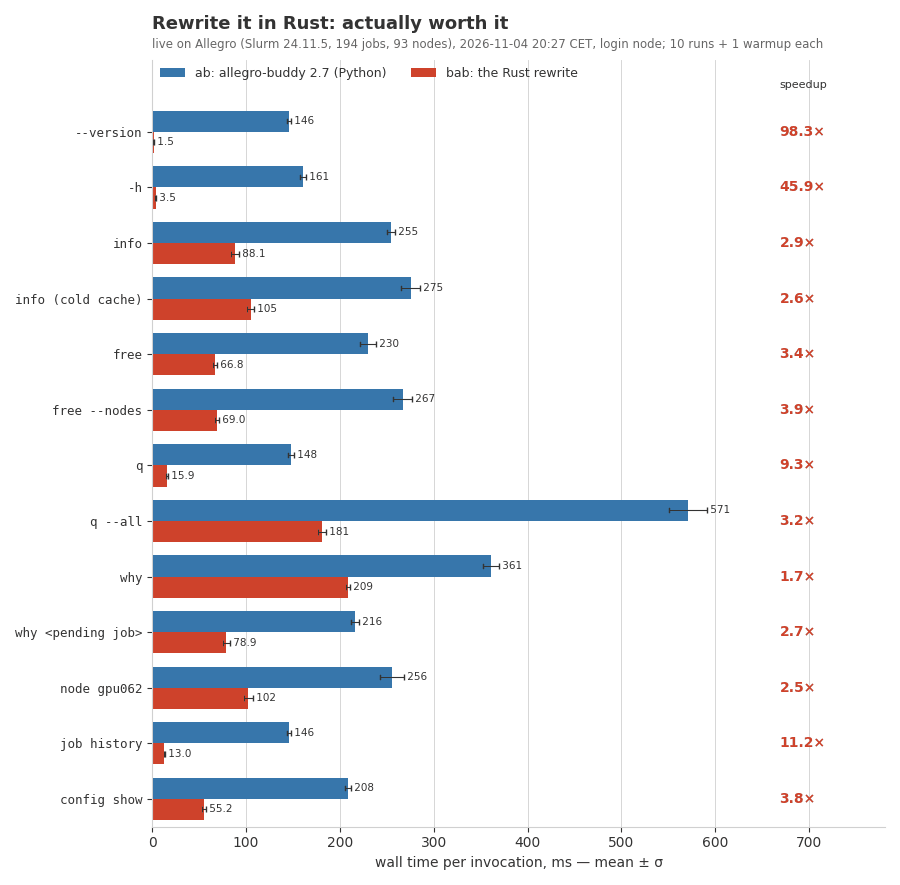
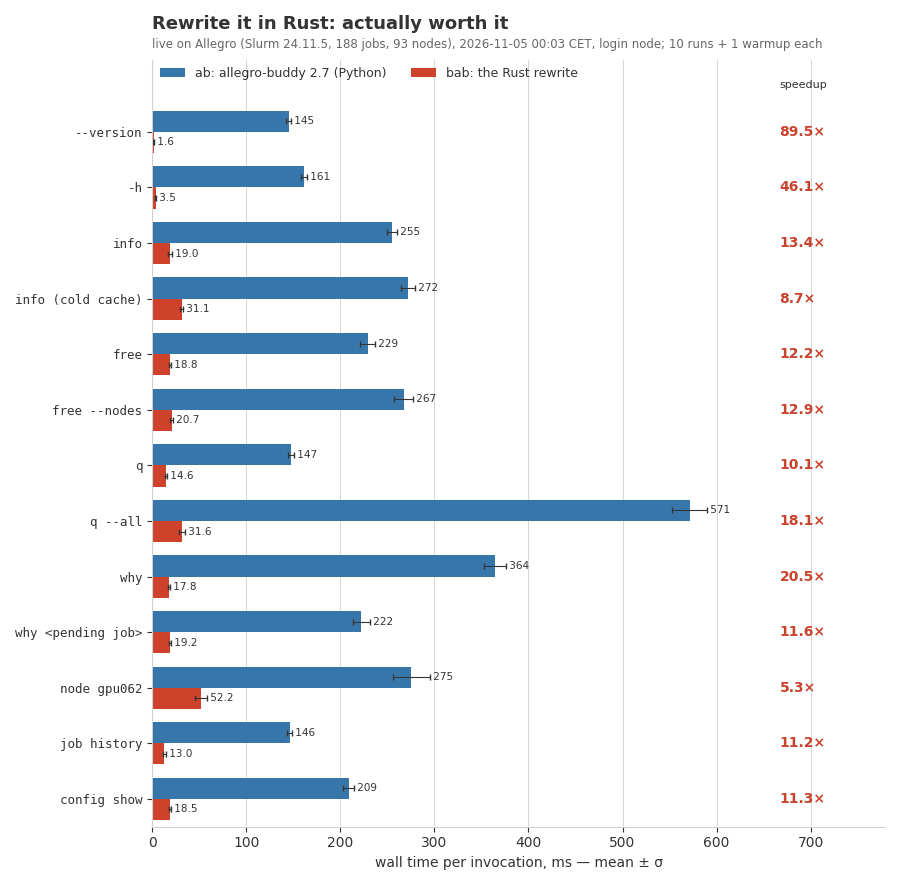
bench: live numbers after the Slurm-side pass (median 12x vs ab, all commands 0.23 s)
Live on Allegro 2026-11-05 00:03 (bench/live.sh, 10 runs + warmup, bab sha256 6297cd4e),
previous bab -> this bab (mean ms):
  --version 1.48 -> 1.62, -h 3.50 -> 3.50, info 88.1 -> 19.0, info cold 104.8 -> 31.1,
  free 66.8 -> 18.9, free --nodes 69.0 -> 20.7, q 15.9 -> 14.6, q --all 180.6 -> 31.6,
  why 208.7 -> 17.8, why <pending> 79.0 -> 19.2, node 102.3 -> 52.2,
  job history 13.0 -> 13.0, config show 55.2 -> 18.5
vs ab: median 3.4x -> 12.2x (geometric mean 5.7x -> 15.1x); all 12 read-only commands
once: 0.88 s -> 0.23 s (ab 2.99 s). Updates live.json, the plots, README (hero alt,
intro, table, where it stops, the extra cache file) and bench/RESULTS.md (summary,
live table, where the speedup comes from, new "Performance pass 2" table).

diff --git a/bench/RESULTS.md b/bench/RESULTS.md
@@ -10,45 +10,52 @@ git tag
 
 ## Summary
 
-- **Live on Allegro** (2026-11-04, 20:28 CET, Slurm 24.11.5, 194 jobs, 93 nodes,
-  10 runs + 1 warmup each): `bab` is **3.4× faster** (median over 13 commands;
-  geometric mean 5.7×). Every call saves **130–390 ms**. Slurm-bound commands: 1.7×
-  (`why`) to 11.2× (`job history`). Pure start-up: `--version` 146 → 1.5 ms (98×).
-  All 12 read-only commands once each: `ab` **2.96 s**, `bab` **0.88 s** (the README
-  header chart). A second pass 11 minutes later agreed within 4 % on most ratios.
-- **Local, instant fake Slurm** (pure tool overhead, 30 runs per command): median
-  **19×**, from 8.7× (`why`) to 154× (`--version`); `ab` needs 85–222 ms per command,
-  `bab` 0.6–15 ms. Peak RSS `ab` 23–32 MiB, `bab` 3.6–10 MiB.
+- **Live on Allegro** (2026-11-05, 00:03 CET, Slurm 24.11.5, 188 jobs, 93 nodes,
+  10 runs + 1 warmup each): `bab` is **12.2× faster** (median over 13 commands;
+  geometric mean 15.1×). Every call saves **130–540 ms**. Slurm-bound commands: 5.3×
+  (`node`) to 20.5× (`why`); most are now one Slurm round trip (~15 ms) plus a few ms.
+  Pure start-up: `--version` 145 → 1.6 ms. All 12 read-only commands once each: `ab`
+  **2.99 s**, `bab` **0.23 s** (the README header chart).
+- **Second performance pass** (Slurm side, see [below](#performance-pass-2-the-slurm-side)):
+  against the previous `bab` median 3.3× (geometric mean 2.6×), all 12 commands 0.88 →
+  0.23 s; `why` 209 → 18 ms, `q --all` 181 → 32 ms, `info` 88 → 19 ms (118 → 19 ms for
+  a user with 9 jobs).
+- **Local, instant fake Slurm** (pure tool overhead, 30 runs per command; first pass,
+  `ab`'s queries): median **19×**, from 8.7× (`why`) to 154× (`--version`); `ab` needs
+  85–222 ms per command, `bab` 0.6–15 ms. Peak RSS `ab` 23–32 MiB, `bab` 3.6–10 MiB.
 - **Local, replayed Slurm latencies** (each fake call sleeps as long as it took on
-  Allegro): median **2.7×** (1.5× `why` … 151× `--version`).
+  Allegro; first pass, the recording only has `ab`'s queries): median **2.7×** (1.5×
+  `why` … 151× `--version`).
 
 ![bab vs ab, live on Allegro](plots/live.png)
 
 ## Live on Allegro
 
-Login node (2× Xeon E5-2690 v4), quiet evening. `ab` = console script of a private venv
+Login node (2× Xeon E5-2690 v4), quiet night (load average 0.4). `ab` = console script of a private venv
 (Python 3.13.5, allegro-buddy 2.7, click 8.3.2, rich 15.0.0, rich-click 1.9.9); `bab` =
 release build without test hooks. Real clock, groups and host, no user config,
 `COLUMNS=160`, output to /dev/null, hyperfine `-N`. Speedup = mean(ab) / mean(bab).
 
 | command | ab mean ± σ (ms) | bab mean ± σ (ms) | speedup |
 |---|---:|---:|---:|
-| `--version` | 145.6 ± 1.8 | 1.48 ± 0.20 | **98.3×** |
-| `-h` | 160.6 ± 3.2 | 3.50 ± 0.32 | **45.9×** |
-| `info` | 254.6 ± 4.4 | 88.06 ± 4.48 | **2.9×** |
-| `info` (cold cache) | 275.3 ± 10.3 | 104.77 ± 4.04 | **2.6×** |
-| `free` | 230.0 ± 8.9 | 66.77 ± 1.81 | **3.4×** |
-| `free --nodes` | 267.2 ± 10.1 | 68.95 ± 2.15 | **3.9×** |
-| `q` | 148.1 ± 3.0 | 15.91 ± 1.06 | **9.3×** |
-| `q --all` | 571.0 ± 20.6 | 180.55 ± 4.40 | **3.2×** |
-| `why` | 361.1 ± 8.3 | 208.74 ± 1.81 | **1.7×** |
-| `why <pending job>` | 215.9 ± 4.5 | 78.95 ± 3.82 | **2.7×** |
-| `node gpu062` | 255.6 ± 13.2 | 102.32 ± 4.91 | **2.5×** |
-| `job history` | 145.6 ± 2.2 | 12.99 ± 0.78 | **11.2×** |
-| `config show` | 208.5 ± 3.1 | 55.17 ± 2.23 | **3.8×** |
+| `--version` | 145.4 ± 2.7 | 1.62 ± 0.45 | **89.5×** |
+| `-h` | 161.5 ± 3.5 | 3.50 ± 0.27 | **46.1×** |
+| `info` | 254.9 ± 5.7 | 18.96 ± 2.21 | **13.4×** |
+| `info` (cold cache) | 272.1 ± 7.2 | 31.15 ± 1.60 | **8.7×** |
+| `free` | 229.0 ± 8.2 | 18.85 ± 1.06 | **12.2×** |
+| `free --nodes` | 267.3 ± 10.5 | 20.68 ± 1.78 | **12.9×** |
+| `q` | 147.5 ± 3.5 | 14.63 ± 0.92 | **10.1×** |
+| `q --all` | 571.3 ± 18.9 | 31.56 ± 3.22 | **18.1×** |
+| `why` | 364.5 ± 11.4 | 17.77 ± 1.04 | **20.5×** |
+| `why <pending job>` | 222.5 ± 9.1 | 19.20 ± 1.00 | **11.6×** |
+| `node gpu062` | 275.4 ± 19.5 | 52.22 ± 6.44 | **5.3×** |
+| `job history` | 146.0 ± 2.5 | 12.99 ± 1.33 | **11.2×** |
+| `config show` | 208.8 ± 5.6 | 18.47 ± 1.09 | **11.3×** |
 
 ## Local replay
 
+First performance pass, before the Slurm-side changes: the recording only has `ab`'s
+queries, which is what `bab` still makes on Slurm versions other than 24.05/24.11.
 Workstation (Xeon W-1250P, `powersave` governor, both tools pinned to CPUs 4–7), the
 anonymised Allegro snapshot (225 jobs, `scontrol --json show job` = 2.4 MB), served by a
 `sh` + `cat` fake Slurm (~1 ms per call for both tools). 5 interleaved rounds × 6 runs.
@@ -73,13 +80,16 @@ anonymised Allegro snapshot (225 jobs, `scontrol --json show job` = 2.4 MB), ser
    node; `bab --version` 0.6 ms.
 2. **Parsing and rendering.** `q --all` (2.4 MB of job JSON, a 225-row table): `ab`
    ~130 ms of own work, `bab` 15 ms. `bab` decodes only the 28 job keys it reads.
-3. **Independent read-only Slurm queries side by side**, only where `ab` makes both
-   calls anyway (`free`, `config show`, the `q` hints, `info`'s sacctmgr + squeue), so
-   the set of Slurm calls is identical.
-4. **The floor is Slurm.** `why` must wait for `scontrol --json show job` (~140 ms live)
-   and then `show nodes` (~50 ms); the second call depends on the first one's result,
-   so it "only" gets 1.7×. Under daytime load the absolute savings stay, the ratios of
-   Slurm-bound commands shrink.
+3. **Cheaper Slurm queries with the same answer.** `scontrol --json` spends most of its
+   time writing JSON on the client: live, `show job` takes ~130 ms and `show nodes`
+   ~50 ms, the text `scontrol --oneliner --details show node` ~14 ms and a filtered
+   `squeue --json --state=PD` ~15 ms. See [pass 2](#performance-pass-2-the-slurm-side).
+4. **All read-only queries of a command at once**, evaluated in `ab`'s order, so errors
+   and output stay `ab`'s even when an earlier call fails.
+5. **The floor is Slurm.** Most commands are now one round trip (~15 ms) plus 2–5 ms of
+   `bab`. `node` still reads every job's details (~40 ms) and parses them (~10 ms);
+   `q --all` needs the queue listing before it knows which jobs get a hint. Under
+   daytime load the absolute savings stay, the ratios of Slurm-bound commands shrink.
 
 ## Performance pass
 
@@ -93,14 +103,46 @@ Slurm calls verified unchanged after every change (compat 846/846, replay 532/53
 | `free` runs the reservation and partition queries side by side | `free` realtime 110 → 95 ms |
 
 Tried and rejected: more concurrent Slurm calls (would change the calls made when an
-earlier one fails), mimalloc (+0.6 ms start-up on every command), smaller wins under
-2 % (pre-sized records, a reduced node-JSON parse), `-C target-cpu=native` (not
-portable).
+earlier one fails; done in pass 2 once only output had to match), mimalloc (+0.6 ms
+start-up on every command), smaller wins under 2 % (pre-sized records, a reduced
+node-JSON parse), `-C target-cpu=native` (not portable).
+
+## Performance pass 2: the Slurm side
+
+`bab`'s own work was 1–30 ms per command; the rest was waiting for Slurm. Measured live
+on Allegro with hyperfine (10 runs, mean); "before" is the previous `bab`, both columns
+from one back-to-back run. Output verified identical after every change: compat harness
+846/846 (its fake taught the new query forms, answered from the same world), replay
+parity 532/532 (that recording only has `ab`'s queries, so it checks the fallback path),
+and live `ab` vs old vs new `bab` byte-identical on 17 read-only commands and, for
+`info`, as each of the 8 users with jobs.
+
+| change | effect (live, each row on top of the ones above) |
+|---|---|
+| Start all read-only queries of a command at once (`core::slurm::prefetch`), consume them in `ab`'s order | `info` 89 → 54 ms, `why` 210 → 151 ms, `node` 110 → 67 ms (alone) |
+| Nodes from `scontrol --oneliner --details show node`, converted to what `--json show nodes` says (flag order, `(null)`, lists); Slurm 24.05/24.11 only | `free` 56 → 21 ms, `config show` 53 → 18 ms, `node` 67 → 47 ms; all 93 Allegro nodes identical to the JSON conversion |
+| `why`: `squeue --json --state=PD --user=U` instead of every job's JSON; `q` hints: `squeue --json --state=PD [--user=U]` (same records, same order) | `why` 151 → 18 ms (210 before the pass), `q --all` 171 → 31 ms |
+| `info`: your jobs' ETAs from one `squeue --format=%i\|%T\|%S\|%e` instead of `squeue` + one `scontrol` per job | `info` as a user with 9 / 54 jobs: 118 / 141 → 19 / 20 ms (1 + 9 calls → 1) |
+
+The cheaper forms follow Slurm's source; `bab` uses them only with a 24.05/24.11 client
+(`scontrol --version`, cached in `~/.cache/allegro-buddy/slurm-version.<host>` with the
+binary's size and mtime) and goes back to `ab`'s queries on any failure or unexpected
+answer (unknown or `BLOCKED` node flags, `Comment=`/`Extra=` on a node, a
+heterogeneous job, a hint job missing from the answer). Extra read-only calls are
+cheap: at most a query an earlier failure leaves unused, and `scontrol --version` once
+per Slurm install.
+
+Tried and rejected: `node` from `squeue -w NODE` plus one `scontrol show job` per job
+(saves ~10 ms but more calls), node GRES/CPU blocks from `squeue --json` (lossy
+conversion), speculative hint queries for `bab q` of your own jobs (three calls for
+the case without pending jobs), local CPU work (now 2–14 ms per command; `-h`'s
+remaining regex compile ~0.3 ms, `node`'s text parse ~10 ms: small gain for the code).
 
 ## Methodology notes
 
 - Same output: the measured builds pass replay parity 532/532 (every recorded command ×
-  `COLUMNS` 80/160/200 × plain/`FORCE_COLOR`; stdout, stderr, exit code, Slurm calls).
+  `COLUMNS` 80/160/200 × plain/`FORCE_COLOR`; stdout, stderr, exit code; Slurm calls
+  equal up to the read-only changes of pass 2).
 - hyperfine `-N` runs `venv/bin/ab` and `bab` directly (no shell, no `uv run`). The
   replay freezes clock, groups and host name for both tools (`BAB_TEST_*` hooks for
   `bab`, an equivalent patch for `ab`); measured cost within noise. Live runs use no hooks.

diff --git a/README.md b/README.md
@@ -6,7 +6,7 @@
   <picture align="center">
     <source media="(prefers-color-scheme: dark)" srcset="bench/plots/hero-dark.svg">
     <source media="(prefers-color-scheme: light)" srcset="bench/plots/hero-light.svg">
-    <img alt="Bar chart: running all 12 read-only commands once takes 0.88 s with bab and 2.96 s with ab." src="bench/plots/hero-light.svg">
+    <img alt="Bar chart: running all 12 read-only commands once takes 0.23 s with bab and 2.99 s with ab." src="bench/plots/hero-light.svg">
   </picture>
 </p>
 <p align="center">
@@ -23,7 +23,7 @@ The original is a great tool. Its only flaw: it is Python, so every call spends 
 importing itself before it asks Slurm anything. Rewriting things in Rust is a meme, so
 we did it as a joke and gave it the most modest name we could think of. Then the joke
 got a differential test harness, a benchmark suite and a CI pipeline. Now it is
-**3.4× faster** (median, live on Allegro). Same commands, flags, config and output, down
+**12× faster** (median, live on Allegro). Same commands, flags, config and output, down
 to the last ANSI escape code. Only the name changed, and it got one more `b`.
 
 ## Install
@@ -139,7 +139,9 @@ it had to pass:
   calls (mutating ones in order). Covered: every `-h`, parsing errors, colours, widths,
   themes, `why --fix` prompts (yes, no, EOF), dev start/login/stop, `--watch` with
   Ctrl-C, completion, config layers, and job names full of Rich markup, emoji and wide
-  characters.
+  characters. Since the second performance pass `bab` asks Slurm for cheaper forms of
+  the same data, so its read-only calls differ; rechecked 846/846 with the fake taught
+  to answer those forms from the same world.
 - **Replay parity: 532 of 532 cases identical** on real Allegro Slurm answers (Slurm
   24.11.5), recorded read-only, anonymised and replayed: every recorded command ×
   `COLUMNS` 80/160/200 × plain/`FORCE_COLOR`.
@@ -156,24 +158,25 @@ That includes the quirks. `bab --version` says `2.7`, not `2.7.0`. A job named
 `[bold]x[/bold]` renders bold, because Rich would. Deliberate differences, all where the
 original falls over: inputs that crash it with a Python traceback are rejected cleanly
 (`q -w nan` is a usage error), and `bab` ignores `UNICODE_VERSION` (Rich would switch to
-an older character-width table).
+an older character-width table). Next to `ab`'s cluster-name cache it keeps one file of
+its own, `slurm-version.<host>` (which Slurm the faster queries were checked for).
 
 ## Performance
 
-Live on Allegro (login node, Slurm 24.11.5, 194 jobs, 93 nodes, 10 runs each, mean
+Live on Allegro (login node, Slurm 24.11.5, 188 jobs, 93 nodes, 10 runs each, mean
 wall time):
 
 | command | `ab` | `bab` | speedup |
 | --- | ---: | ---: | ---: |
-| `--version` | 146 ms | 1.5 ms | **98×** |
+| `--version` | 145 ms | 1.6 ms | **90×** |
 | `-h` | 161 ms | 3.5 ms | **46×** |
-| `q` | 148 ms | 16 ms | **9.3×** |
-| `q --all` | 571 ms | 181 ms | **3.2×** |
-| `free` | 230 ms | 67 ms | **3.4×** |
-| `info` | 255 ms | 88 ms | **2.9×** |
-| `why` | 361 ms | 209 ms | **1.7×** |
+| `q` | 147 ms | 15 ms | **10×** |
+| `q --all` | 571 ms | 32 ms | **18×** |
+| `free` | 229 ms | 19 ms | **12×** |
+| `info` | 255 ms | 19 ms | **13×** |
+| `why` | 364 ms | 18 ms | **21×** |
 
-Median over 13 commands: **3.4×** (geometric mean 5.7×); every call saves 130–390 ms.
+Median over 13 commands: **12×** (geometric mean 15×); every call saves 130–540 ms.
 Against an instant fake Slurm (pure tool overhead) the median is **19×**: `ab` needs
 85–222 ms per command, `bab` 0.6–15 ms.
 
@@ -182,16 +185,22 @@ Against an instant fake Slurm (pure tool overhead) the median is **19×**: `ab` 
 </p>
 
 Where it comes from: no interpreter start-up and imports (~145 ms of rich, rich-click
-and click on Allegro's login node), parsing only the 28 job fields it actually reads,
-and running independent read-only Slurm queries side by side.
+and click on Allegro's login node), starting all read-only Slurm queries of a command at
+once, and asking Slurm for the cheapest form of the same data. `scontrol --json` spends
+most of its time writing JSON: `show job` takes ~130 ms on Allegro, `show nodes` ~50 ms.
+`bab` reads the nodes from `scontrol`'s text form (~14 ms) and only the jobs it needs
+from a filtered `squeue --json` (~15 ms), converted to exactly what the JSON says.
 
 Where it stops, honestly:
 
-- **Slurm is the floor.** Rust doesn't make slurmctld answer any faster. `why` has to
-  wait ~140 ms for `scontrol --json show job` and then ~50 ms for the nodes. The second
-  call depends on the first one's result, and running both at once would change which
-  calls happen when things fail (the harness checked that too). So `why` "only" gets 1.7×.
-- These numbers come from a quiet evening. Under daytime load Slurm takes longer; the
+- **Slurm is the floor.** Rust doesn't make slurmctld answer any faster. Most commands
+  are now one Slurm round trip (~15 ms) plus a few ms of `bab`. `node` still reads every
+  job's details (~40 ms), and `q --all` lists the queue before it knows which jobs get
+  a hint.
+- The cheaper queries follow Slurm's source for 24.05 and 24.11, so only those versions
+  get them; anything else (or anything unexpected in an answer) gets `ab`'s queries,
+  about 4× faster than `ab` instead of 12×.
+- These numbers come from a quiet night. Under daytime load Slurm takes longer; the
   absolute savings stay, but the ratios of Slurm-bound commands shrink.
 - At ~0.2 s saved per call, the rewrite pays for itself after a few million `bab q`s.
   We're working on it.
